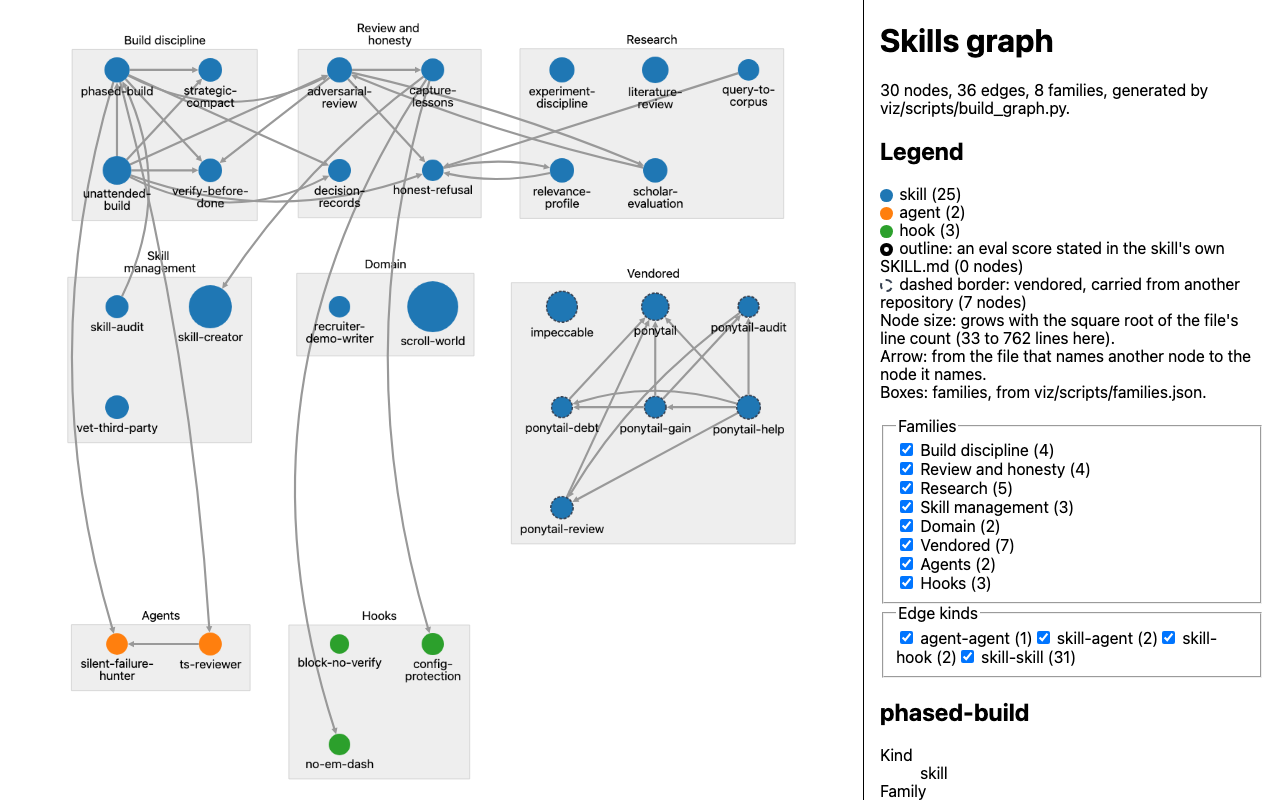
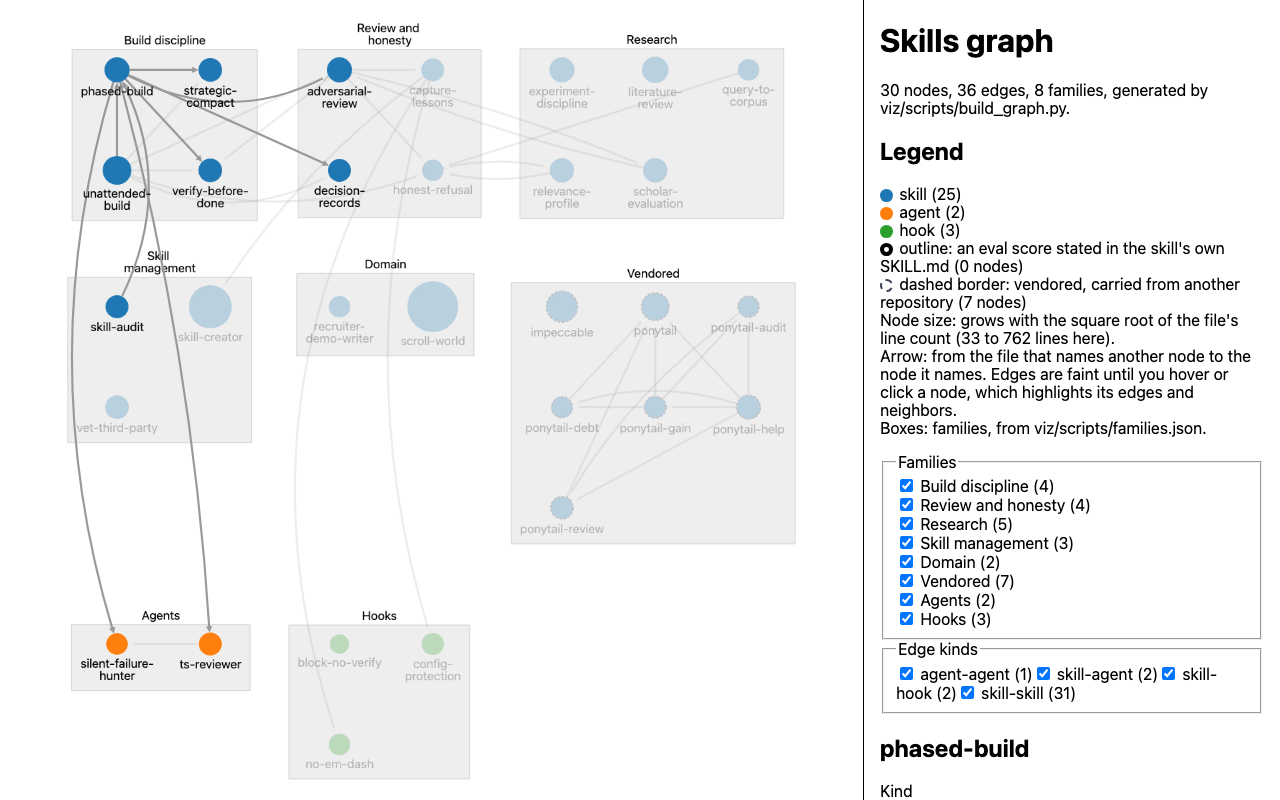
feat(viz): faint edges with hover and selection focus (F5)
Edges draw at 0.18 opacity by default. Hovering a node, or selecting it
with a click, draws its edges and neighbors at full opacity and dims
every other node to 0.25; the pointer leaving returns to the selection,
and clicking empty canvas clears it. The no-crossing check stays.

smoke checks every node's and edge's opacity with no focus, on hover,
with a kept selection, and after clearing; two mutants (no edge
highlight, pointer leaving forgets the selection) fail it. npm test
23 of 23.

diff --git a/viz/app.js b/viz/app.js
@@ -14,6 +14,10 @@ const MEASURED_OUTLINE = { width: 4, color: '#000000' };
 // vendored) gets a dashed border.
 const VENDORED_BORDER = { width: 2, color: '#374151', style: 'dashed' };
 const LABEL_FONT_SIZE = 17;
+// Edges are faint until a node is hovered or selected; then that node's edges
+// and neighbors are drawn at full opacity and every other node is dimmed.
+const EDGE_OPACITY = 0.18;
+const DIM_OPACITY = 0.25;
 
 function isMeasured(n) {
   return typeof n.eval_status === 'string' && n.eval_status.startsWith('measured:');
@@ -234,6 +238,8 @@ if (typeof module === 'object' && module.exports) {
     KIND_COLORS,
     MEASURED_OUTLINE,
     VENDORED_BORDER,
+    EDGE_OPACITY,
+    DIM_OPACITY,
     LABEL_FONT_SIZE,
     SLOT,
   };
@@ -363,7 +369,7 @@ function main() {
     const lines = graph.nodes.map((n) => n.lines).filter((n) => typeof n === 'number');
     list.append(
       el('li', `Node size: grows with the square root of the file's line count (${Math.min(...lines)} to ${Math.max(...lines)} lines here).`),
-      el('li', 'Arrow: from the file that names another node to the node it names.'),
+      el('li', 'Arrow: from the file that names another node to the node it names. Edges are faint until you hover or click a node, which highlights its edges and neighbors.'),
       el('li', 'Boxes: families, from viz/scripts/families.json.'),
     );
     legendEl.append(list);
@@ -413,16 +419,45 @@ function main() {
           },
         },
         { selector: ':parent', style: { 'text-valign': 'top', 'text-margin-y': -4 } },
-        { selector: 'edge', style: { 'curve-style': 'bezier', 'target-arrow-shape': 'triangle' } },
+        { selector: 'edge', style: { 'curve-style': 'bezier', 'target-arrow-shape': 'triangle', opacity: EDGE_OPACITY } },
+        { selector: 'edge.hl', style: { opacity: 1 } },
+        { selector: 'node.dim', style: { opacity: DIM_OPACITY } },
         { selector: '.filtered', style: { display: 'none' } },
       ],
     });
     window.cy = cy;
     renderLegend(graph);
 
+    let selected = null;
+    function focus(node) {
+      cy.batch(() => {
+        cy.elements().removeClass('hl dim');
+        if (!node) return;
+        const hood = node.closedNeighborhood();
+        cy.nodes()
+          .filter((n) => !n.isParent() && !hood.contains(n))
+          .addClass('dim');
+        node.connectedEdges().addClass('hl');
+      });
+    }
+    const isMember = (node) => node.data('kind') !== 'family';
+    cy.on('mouseover', 'node', (evt) => {
+      if (isMember(evt.target)) focus(evt.target);
+    });
+    cy.on('mouseout', 'node', (evt) => {
+      if (isMember(evt.target)) focus(selected);
+    });
     cy.on('tap', 'node', (evt) => {
-      const node = evt.target;
-      if (node.data('kind') !== 'family') showDetails(graph, node.id());
+      if (!isMember(evt.target)) return;
+      selected = evt.target;
+      focus(selected);
+      showDetails(graph, selected.id());
+    });
+    cy.on('tap', (evt) => {
+      if (evt.target === cy) {
+        selected = null;
+        focus(null);
+      }
     });
 
     function addFilter(container, value, text, members) {

diff --git a/viz/README.md b/viz/README.md
@@ -7,9 +7,9 @@ A static page that shows every skill, agent, and hook in this repo as a node, cl
 - Run the extractor tests: `python3 -m unittest discover viz/scripts`.
 - Run the page tests (no browser): `node --test viz/scripts/test_app.cjs viz/scripts/test_panel.cjs`. `test_panel.cjs` runs the real `app.js` against a small fake DOM, taps every node, and checks each detail panel against `graph.json`; it checks the page's logic, not its drawing.
 - Run the layout test (headless Cytoscape, no browser): `node --test viz/scripts/test_layout.cjs`. `npm test` in `viz/` runs all three Node test files.
-- Smoke-test the rendered page: install the dev-only Playwright once with `cd viz && PLAYWRIGHT_SKIP_BROWSER_DOWNLOAD=1 npm ci --ignore-scripts` (pinned to 1.63.0 in `viz/package.json`; it drives Chromium build 1243, which must already be in the Playwright browser cache, or run `npx playwright install chromium` to fetch it). Then, with the server above running, `node viz/scripts/smoke.mjs http://127.0.0.1:8123/`. It checks the rendered node, edge, and family counts against `graph.json`, checks that no two family boxes overlap, checks each node's color against its kind and the outline against its eval status, checks the legend, checks that the smallest label is at least 12 px as drawn, that no label covers a node circle, that the graph fits the viewport, and that no edge is drawn over a node it does not connect, checks every family and edge-kind filter by the exact set of elements it hides (plus one combined case), checks the outline on a copy of the data in which one skill states a score, clicks the most-connected node, checks every field and edge in the detail panel with the same contract as `test_panel.cjs` (`scripts/panel-check.cjs`), and writes `viz/screenshot.png`.
+- Smoke-test the rendered page: install the dev-only Playwright once with `cd viz && PLAYWRIGHT_SKIP_BROWSER_DOWNLOAD=1 npm ci --ignore-scripts` (pinned to 1.63.0 in `viz/package.json`; it drives Chromium build 1243, which must already be in the Playwright browser cache, or run `npx playwright install chromium` to fetch it). Then, with the server above running, `node viz/scripts/smoke.mjs http://127.0.0.1:8123/`. It checks the rendered node, edge, and family counts against `graph.json`, checks that no two family boxes overlap, checks each node's color against its kind and the outline against its eval status, checks the legend, checks that the smallest label is at least 12 px as drawn, that no label covers a node circle, that the graph fits the viewport, and that no edge is drawn over a node it does not connect, checks every family and edge-kind filter by the exact set of elements it hides (plus one combined case), checks the opacity of every node and edge with no focus, on hover, with a selection that persists after the pointer leaves, and after clearing it, checks the outline on a copy of the data in which one skill states a score, clicks the most-connected node, checks every field and edge in the detail panel with the same contract as `test_panel.cjs` (`scripts/panel-check.cjs`), and writes `viz/screenshot.png`.
 
-The page (`index.html`, `app.js`, `style.css`) uses Cytoscape.js 3.34.3, vendored in `vendor/` with its MIT license; provenance and the reason for the choice are in `docs/decisions/0001-graph-library-cytoscape.md`. Families are compound nodes; each family gets its own cell, sized by member count, and its members are placed in the cell with Cytoscape's built-in `grid` layout, animation off, so family boxes never overlap. The number of cell columns is chosen to fit the viewport's shape at the largest zoom, and the graph is fitted to the viewport on load. Edges are straight unless a straight line would pass over a node the edge does not connect, which would read as a reference that does not exist; such an edge is bent around it, and the bend is checked against the path Cytoscape actually draws. Nodes are colored by kind with the first three colors of d3's category10 scheme (skill blue, agent orange, hook green), a default for telling categories apart rather than a designed palette; a node whose own SKILL.md states an eval score gets a black outline (none does today); a vendored node gets a dashed border. Node size grows with the square root of the file's line count. Labels sit below their node at 17 px (at least 12 px as drawn at a 1280 by 800 window) and wrap at hyphens. A legend in the side panel says what color, outline, size, arrows, and boxes mean, and the panel filters by family and by edge kind. Otherwise styling is plain on purpose: system font, white background.
+The page (`index.html`, `app.js`, `style.css`) uses Cytoscape.js 3.34.3, vendored in `vendor/` with its MIT license; provenance and the reason for the choice are in `docs/decisions/0001-graph-library-cytoscape.md`. Families are compound nodes; each family gets its own cell, sized by member count, and its members are placed in the cell with Cytoscape's built-in `grid` layout, animation off, so family boxes never overlap. The number of cell columns is chosen to fit the viewport's shape at the largest zoom, and the graph is fitted to the viewport on load. Edges are straight unless a straight line would pass over a node the edge does not connect, which would read as a reference that does not exist; such an edge is bent around it, and the bend is checked against the path Cytoscape actually draws. Edges are drawn faint by default; hovering a node, or selecting it with a click, draws that node's edges and neighbors at full opacity and dims every other node. Clicking empty canvas clears the selection. Nodes are colored by kind with the first three colors of d3's category10 scheme (skill blue, agent orange, hook green), a default for telling categories apart rather than a designed palette; a node whose own SKILL.md states an eval score gets a black outline (none does today); a vendored node gets a dashed border. Node size grows with the square root of the file's line count. Labels sit below their node at 17 px (at least 12 px as drawn at a 1280 by 800 window) and wrap at hyphens. A legend in the side panel says what color, outline, size, arrows, and boxes mean, and the panel filters by family and by edge kind. Otherwise styling is plain on purpose: system font, white background.
 
 ## graph.json
 
